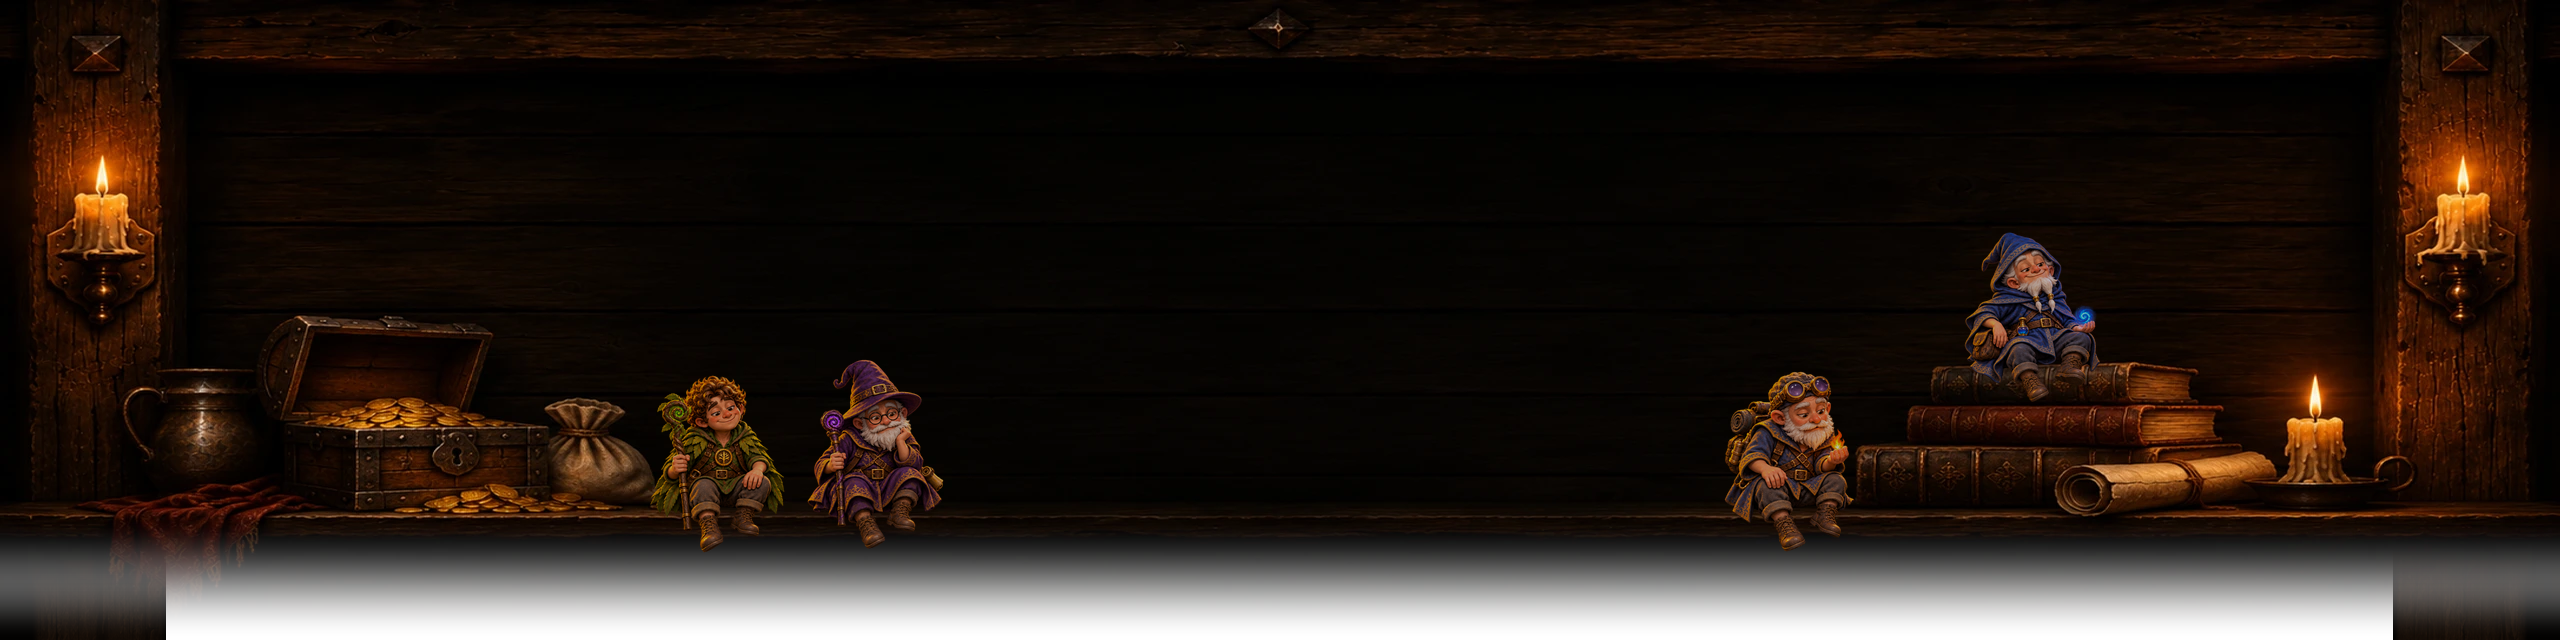
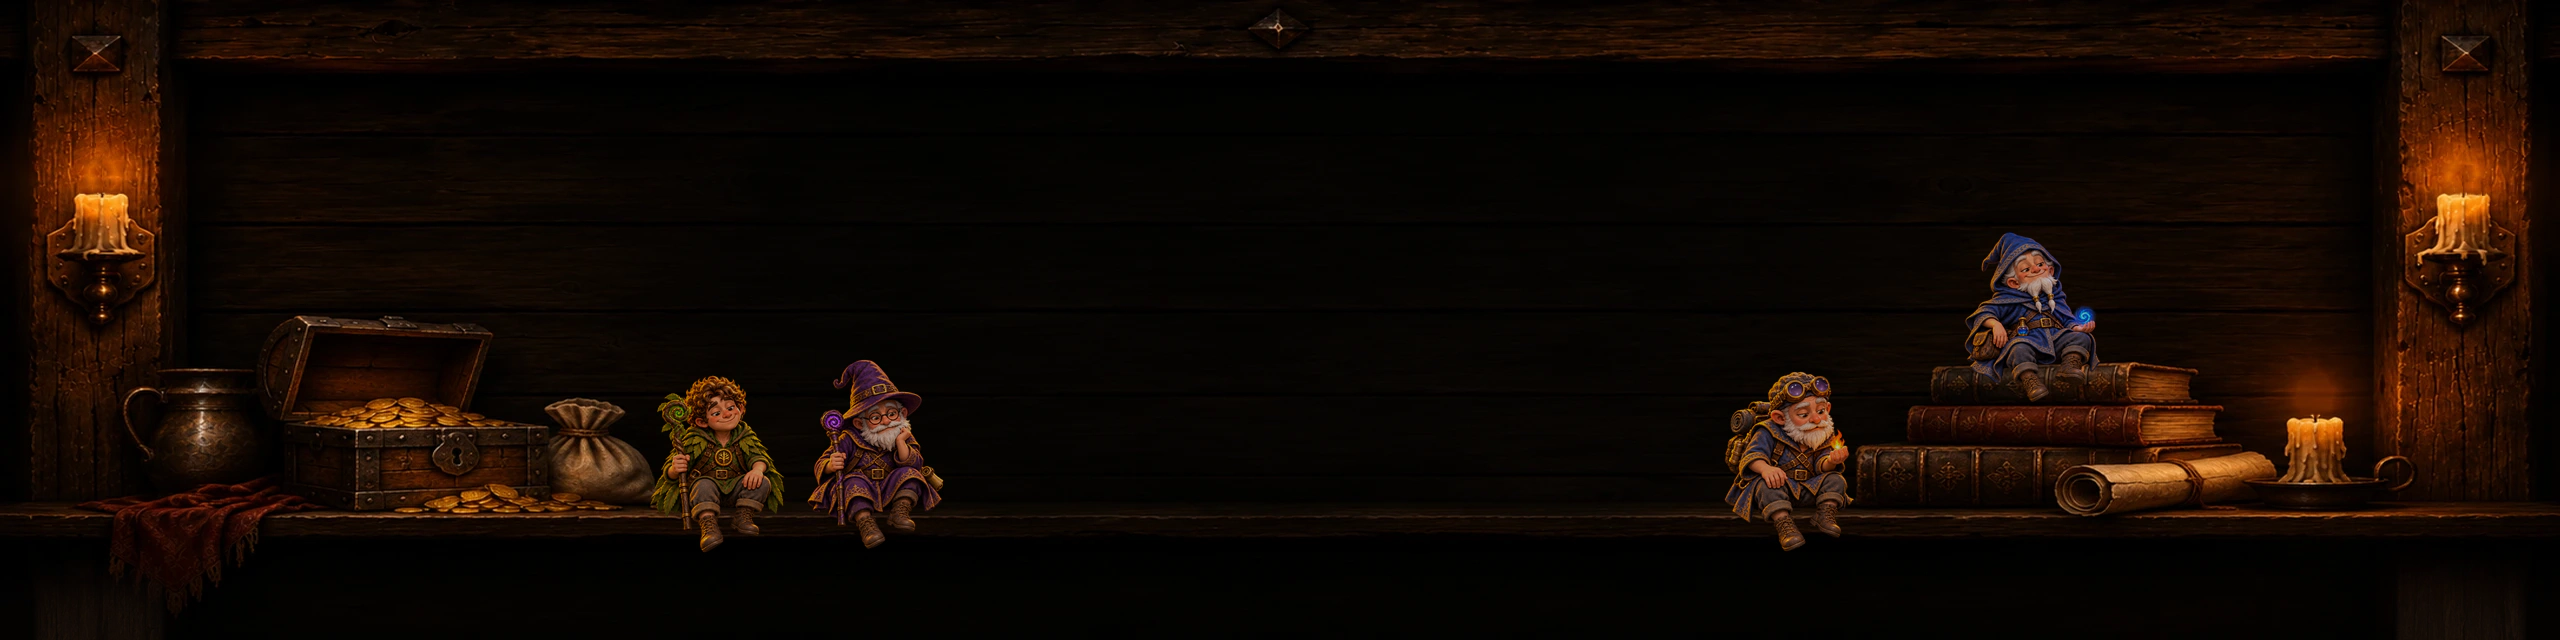
feat: painted flipbook flames for the tavern candles
The flames are painted out of the header band and drawn from an 8-frame
flipbook made in ChatGPT, screen-blended so no box shows around them, with
a slow sway and a softer glow. Replaces the copied flame, the noise filter
and the fast brightness blinking.

diff --git a/web/src/index.css b/web/src/index.css
@@ -653,10 +653,11 @@ textarea { resize: vertical; }
 }
 .hero__inner { height: 100%; padding: 0; }
 
-/* Levande ljus: tre lågor i bandet (lampetterna på stolparna och ljuset på hyllan). Varje låga
-   får ett sken som pulserar på väggen och en kopia av den målade lågan (samma bit av bandet som
-   bakgrund) som fladdrar ovanpå originalet. Allt räknas i bandets pixlar (2560x640) gånger --s,
-   med --ox som förskjutning när bandet beskärs i mitten (smala fönster). */
+/* Levande ljus: tre lågor (lampetterna på stolparna och ljuset på hyllan). Lågorna är bortmålade
+   ur bandet; här ritas de som en målad flipbok (flamma-ark.webp, 8 rutor på svart) som läggs på
+   med screen, så det svarta runt lågan inte syns. Flipboken bläddras, lågan svajar lugnt och
+   skenet på väggen andas. Allt räknas i bandets pixlar (2560x640) gånger --s, med --ox som
+   förskjutning när bandet beskärs i mitten (smala fönster). */
 .hero { container-type: inline-size; --s: calc(100cqw / 2560); --ox: 0px; }
 .flames { position: absolute; inset: 0; overflow: hidden; pointer-events: none; }
 .flame {
@@ -666,96 +667,55 @@ textarea { resize: vertical; }
   top: calc(var(--y) * var(--s));
 }
 /* --k sprider tempot per låga, --o förskjuter startläget så att de aldrig går i takt */
-.flame--vanster { --x: 103; --y: 196; --k: 1; --o: -0.4s; }
-.flame--hoger { --x: 2463; --y: 198; --k: 1.17; --o: -1.3s; }
-.flame--hylla { --x: 2316; --y: 417; --k: 0.89; --o: -2.2s; }
-.flames__defs { position: absolute; width: 0; height: 0; }
+.flame--vanster { --x: 103; --y: 194; --k: 1; --o: -0.4s; }
+.flame--hoger { --x: 2463; --y: 196; --k: 1.13; --o: -1.3s; }
+.flame--hylla { --x: 2316; --y: 414; --k: 0.91; --o: -2.2s; }
 .flame__glow {
   position: absolute;
-  left: calc(-130 * var(--s));
-  top: calc(-150 * var(--s));
-  width: calc(260 * var(--s));
-  height: calc(260 * var(--s));
-  border-radius: 50%;
-  background: radial-gradient(circle, rgba(255, 170, 70, 0.32), rgba(255, 130, 40, 0.12) 40%, transparent 70%);
+  left: calc(-170 * var(--s));
+  top: calc(-200 * var(--s));
+  width: calc(340 * var(--s));
+  height: calc(340 * var(--s));
+  background: radial-gradient(closest-side, rgba(255, 165, 70, 0.2), rgba(255, 130, 40, 0.08) 45%, rgba(255, 120, 30, 0) 100%);
   mix-blend-mode: screen;
-  opacity: 0.7;
-}
-.flame__wave {
-  /* 28x58 bandpixlar runt lågan, med foten i mitten av underkanten; brusfiltret vrider formen */
-  position: absolute;
-  left: calc(-14 * var(--s));
-  top: calc(-56 * var(--s));
-  width: calc(28 * var(--s));
-  height: calc(58 * var(--s));
+  opacity: 0.85;
 }
 .flame__fire {
+  /* En ruta i arket (96x192) ritas som 28x48 bandpixlar, foten 2 px över underkanten */
   position: absolute;
-  inset: 0;
-  background: url('/bilder/taverna-band.webp') no-repeat;
-  background-size: calc(2560 * var(--s)) auto;
-  background-position: calc((14 - var(--x)) * var(--s)) calc((56 - var(--y)) * var(--s));
-  -webkit-mask-image: radial-gradient(ellipse 50% 55% at 50% 55%, #000 60%, transparent 100%);
-  mask-image: radial-gradient(ellipse 50% 55% at 50% 55%, #000 60%, transparent 100%);
+  left: calc(-14 * var(--s));
+  top: calc(-46 * var(--s));
+  width: calc(28 * var(--s));
+  height: calc(48 * var(--s));
+  background: url('/bilder/flamma-ark.webp') 0 0 / 800% 100% no-repeat;
+  mix-blend-mode: screen;
   transform-origin: 50% 96%;
 }
-/* Fyra rörelser med olika längd (höjd, svaj, drift, ljus) läggs på varandra, så mönstret
-   aldrig upprepas; lågan växer bara (aldrig under 1), så originalet under syns inte bredvid */
 @media (prefers-reduced-motion: no-preference) {
-  .flame__wave { filter: url(#flame-wave); }
   .flame__fire {
     animation:
-      flame-stretch calc(1.31s * var(--k)) ease-in-out var(--o) infinite,
-      flame-sway calc(2.93s * var(--k)) ease-in-out var(--o) infinite,
-      flame-drift calc(1.73s * var(--k)) ease-in-out var(--o) infinite,
-      flame-bright calc(0.71s * var(--k)) linear var(--o) infinite;
+      flame-frames calc(1.2s * var(--k)) steps(8, jump-none) var(--o) infinite,
+      flame-sway calc(3.3s * var(--k)) ease-in-out var(--o) infinite,
+      flame-stretch calc(2.1s * var(--k)) ease-in-out var(--o) infinite;
   }
-  .flame__glow {
-    animation:
-      flame-glow calc(0.53s * var(--k)) linear var(--o) infinite,
-      flame-swell calc(3.1s * var(--k)) ease-in-out var(--o) infinite;
-  }
+  .flame__glow { animation: flame-glow calc(4.3s * var(--k)) ease-in-out var(--o) infinite; }
+}
+@keyframes flame-frames { from { background-position-x: 0%; } to { background-position-x: 100%; } }
+@keyframes flame-sway {
+  0%, 100% { transform: skewX(0deg); }
+  30% { transform: skewX(-4deg); }
+  55% { transform: skewX(1.5deg); }
+  80% { transform: skewX(3.5deg); }
 }
 @keyframes flame-stretch {
   0%, 100% { scale: 1 1; }
-  17% { scale: 1.02 1.12; }
-  31% { scale: 1 1.04; }
-  52% { scale: 1.03 1.18; }
-  64% { scale: 1.01 1.06; }
-  81% { scale: 1.02 1.13; }
-}
-@keyframes flame-sway {
-  0%, 100% { transform: skewX(0deg); }
-  23% { transform: skewX(-3deg); }
-  41% { transform: skewX(1.5deg); }
-  58% { transform: skewX(-1deg); }
-  77% { transform: skewX(3.5deg); }
-}
-@keyframes flame-drift {
-  0%, 100% { translate: 0 0; }
-  29% { translate: -4% 0; }
-  63% { translate: 3% -1%; }
-}
-@keyframes flame-bright {
-  0%, 100% { filter: brightness(1.05); }
-  13% { filter: brightness(1.2); }
-  27% { filter: brightness(0.98); }
-  38% { filter: brightness(1.12); }
-  56% { filter: brightness(1.02); }
-  71% { filter: brightness(1.22); }
-  86% { filter: brightness(1); }
+  35% { scale: 0.97 1.06; }
+  70% { scale: 1.02 0.96; }
 }
 @keyframes flame-glow {
-  0%, 100% { opacity: 0.72; }
-  21% { opacity: 0.86; }
-  37% { opacity: 0.64; }
-  58% { opacity: 0.9; }
-  79% { opacity: 0.7; }
-}
-@keyframes flame-swell {
-  0%, 100% { scale: 1; }
-  40% { scale: 1.05; }
-  70% { scale: 0.97; }
+  0%, 100% { opacity: 0.85; }
+  40% { opacity: 0.95; }
+  70% { opacity: 0.78; }
 }
 .brand-link { position: absolute; left: 50%; top: 3.6vw; width: 27vw; transform: translateX(-50%); display: block; }
 .brand-sign { display: block; width: 100%; height: auto; filter: drop-shadow(0 8px 12px rgba(0, 0, 0, 0.6)); }

diff --git a/web/src/App.tsx b/web/src/App.tsx
@@ -59,24 +59,13 @@ function Shell() {
       {/* Utanför headern men ovanpå den: headerbildens mask skulle annars tona ut hörnet */}
       <AccountBar />
       <header className="hero">
-        {/* Ljusen i bandet fladdrar: ett sken på väggen och den målade lågan själv, se .flame i CSS */}
+        {/* Ljusen i bandet lever: lågorna är bortmålade ur bandet och ritas här som en målad
+            flipbok (flamma-ark.webp) med ett sken på väggen, se .flame i CSS */}
         <div className="flames" aria-hidden="true">
-          {/* Brus som vrider lågans form (värmedallring); frekvens och förskjutning i px */}
-          <svg className="flames__defs" width="0" height="0" focusable="false">
-            <filter id="flame-wave" x="-0.5" y="-0.5" width="2" height="2" colorInterpolationFilters="sRGB">
-              <feTurbulence type="fractalNoise" baseFrequency="0.045 0.07" numOctaves="1" seed="7" result="noise">
-                <animate attributeName="baseFrequency" dur="3.7s" repeatCount="indefinite"
-                  values="0.045 0.07; 0.055 0.09; 0.04 0.08; 0.05 0.06; 0.045 0.07" />
-              </feTurbulence>
-              <feDisplacementMap in="SourceGraphic" in2="noise" scale="3" xChannelSelector="R" yChannelSelector="G">
-                <animate attributeName="scale" dur="2.9s" repeatCount="indefinite" values="2.5; 4; 2; 3.5; 2.5" />
-              </feDisplacementMap>
-            </filter>
-          </svg>
           {['vanster', 'hoger', 'hylla'].map((f) => (
             <span key={f} className={`flame flame--${f}`}>
               <span className="flame__glow" />
-              <span className="flame__wave"><span className="flame__fire" /></span>
+              <span className="flame__fire" />
             </span>
           ))}
         </div>

diff --git a/DESIGN.md b/DESIGN.md
@@ -270,7 +270,7 @@ Leather plaques from the Material System (`ui/meny.webp`, `ui/meny-aktiv.webp`) 
 - **Base stats and set builder:** under the stat box a folded panel (native details/summary) shows base stats: race + class, the bonus points with − and + buttons, and total / max per attribute, with a credit link to the wiki's Character Planner. With base stats the stat box shows attributes as base + gear (gear still colours the number green). Bygg set sits with the wish-set actions and opens a full-width panel under the doll: a grid of number fields for weights, the options (only empty slots, only known source, zones with suggestions), the suggested items as an Armory list with slot, icon, wiki link with hover tooltip and score, and one primary button that puts them into the open wish set.
 - **Wide screens:** the layout is drawn for about 1920px. From 2240px the content (menu, page, account bar and the hover tooltip, not the tavern wall, which already scales with the window) is zoomed in steps with `--z` (1.25, 1.5, 1.75, 2 at 3680px), so a 4K screen looks like 1920 instead of a narrow strip. Rules inside the content that use vw/vh divide by `var(--z)`.
 - **Stitches on wide panels:** `panel-tyst` and `panel-tung` stretch their edges, so on wide panels the stitches became long dashes. The frame is now drawn from `ui/panel-*-slat.webp` (stitches painted out along the edges, corners untouched) and `.panel::after` / `.frame::after` add the stitches alone from `ui/panel-*-stygn.webp` with `border-image-repeat: round`, so they keep their spacing without visible seams in the leather. `--pb` holds the frame width.
-- **Living candles:** the three candle flames in `taverna-band.webp` (both wall sconces and the shelf candle) flicker. `.flame__fire` is a copy of the painted flame (the same piece of the band as background, soft mask) that only grows and sways, so the static flame never peeks out. Four animations with different lengths (stretch, sway, drift, brightness) overlap so the pattern never repeats, each flame at its own tempo (`--k`) and offset (`--o`), and `.flame__wave` bends the shape with the SVG filter `#flame-wave` (low-frequency turbulence in px, animated). `.flame__glow` is a warm `screen`-blended glow that pulses on the wall. Positions are band pixels times `--s` (plus `--ox` when narrow windows crop the band). Off with `prefers-reduced-motion`.
+- **Living candles:** the three candle flames (both wall sconces and the shelf candle) are painted out of `taverna-band.webp` and drawn live: `.flame__fire` steps through `bilder/flamma-ark.webp` (8 painted flicker frames on pure black, made in ChatGPT) with `mix-blend-mode: screen`, so the black around the flame is invisible, plus a slow sway and stretch. Each flame has its own tempo (`--k`) and offset (`--o`). `.flame__glow` is a soft warm `screen` glow that breathes slowly on the wall (no fast blinking, no hard edge). Positions are band pixels times `--s` (plus `--ox` when narrow windows crop the band). Off with `prefers-reduced-motion`.
 - **Item hover:** on the character doll (Home and Armory) and in Armory's item lists, hovering an item (or keyboard focus) floats the full in-game tooltip beside it, the same window as on import. Fixed to the viewport, right of the item or left if it does not fit, gone on scroll or Esc; mouse and keyboard only, touch keeps tap.
 
 ### Inputs / Fields
